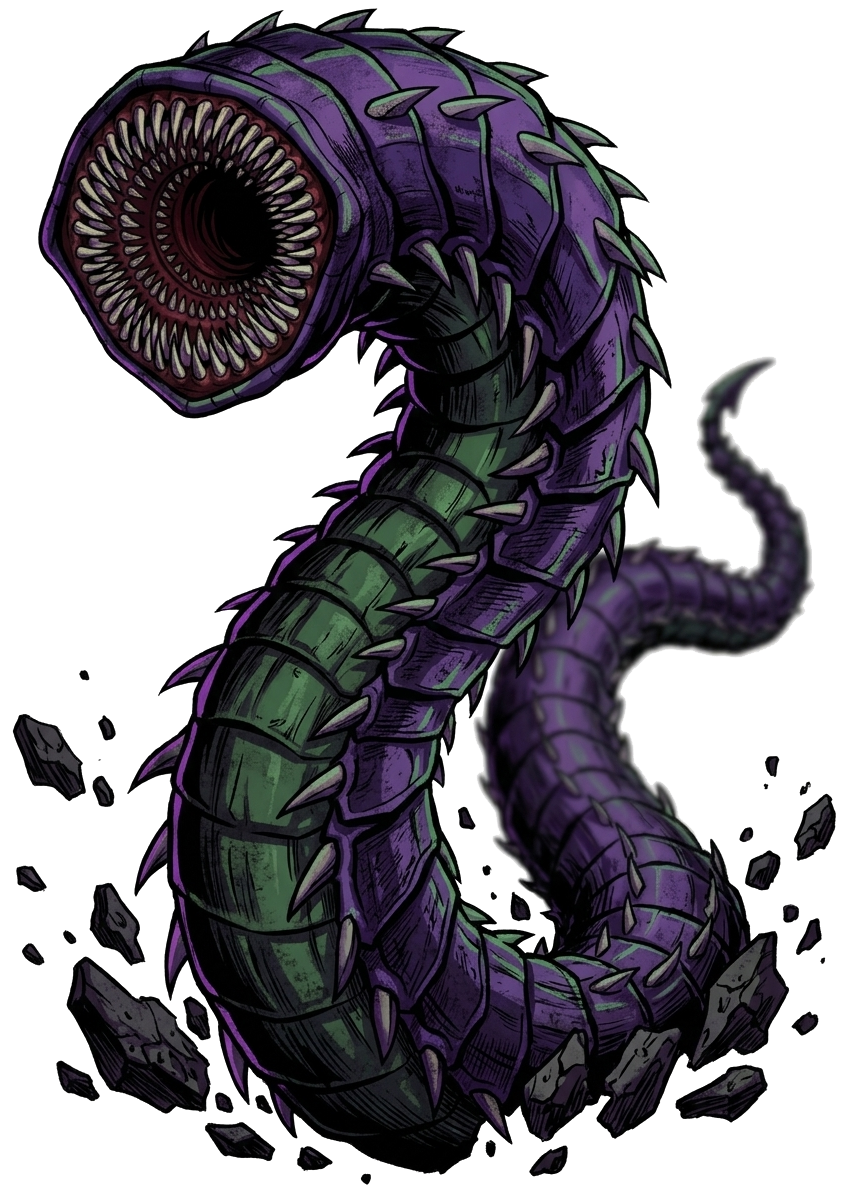
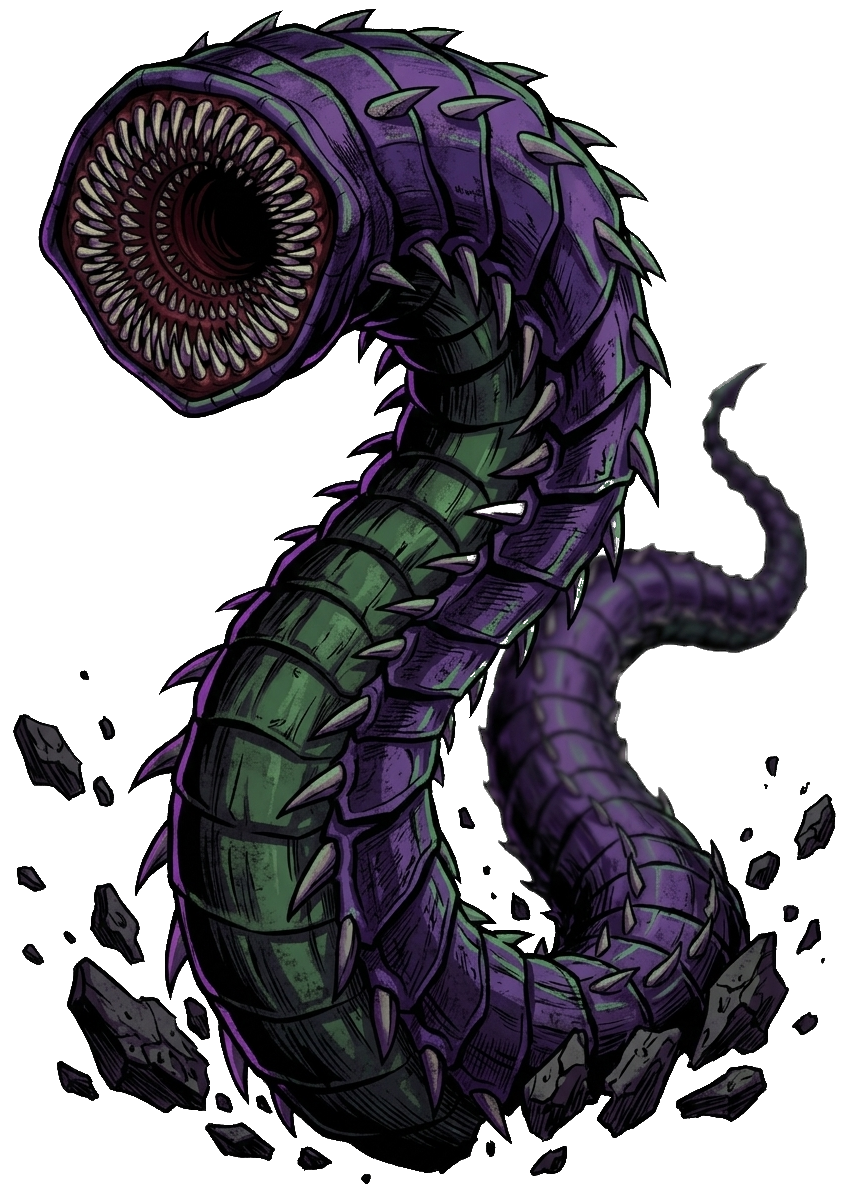
fix(art): remove white background halo along tail and crease of green_24_verme_purpura

diff --git a/src/components/CardView.tsx b/src/components/CardView.tsx
@@ -363,7 +363,7 @@ export const CardView: React.FC<CardViewProps> = ({
           <div className={`mtg-token-art aura-${displayCard.domain}`}>
             {!imgError && displayCard.imagePath ? (
               <img
-                src={`${displayCard.imagePath}?v=45`}
+                src={`${displayCard.imagePath}?v=46`}
                 alt={displayName}
                 className="mtg-token-img"
                 onError={() => setImgError(true)}
@@ -520,7 +520,7 @@ export const CardView: React.FC<CardViewProps> = ({
 
           {!imgError && displayCard.imagePath ? (
             <img
-              src={`${displayCard.imagePath}?v=45`}
+              src={`${displayCard.imagePath}?v=46`}
               alt={displayName}
               className="card-cutout-img"
               onError={() => setImgError(true)}

diff --git a/src/components/MythologyAtlasView.tsx b/src/components/MythologyAtlasView.tsx
@@ -342,7 +342,7 @@ export const MythologyAtlasView: React.FC<MythologyAtlasViewProps> = ({ onInspec
                         title={`Clique para inspecionar ${card.name}`}
                       >
                         <img
-                          src={`${card.imagePath}?v=18`}
+                          src={`${card.imagePath}?v=19`}
                           alt={card.name}
                           className="poem-card-medallion-img"
                           loading="lazy"
